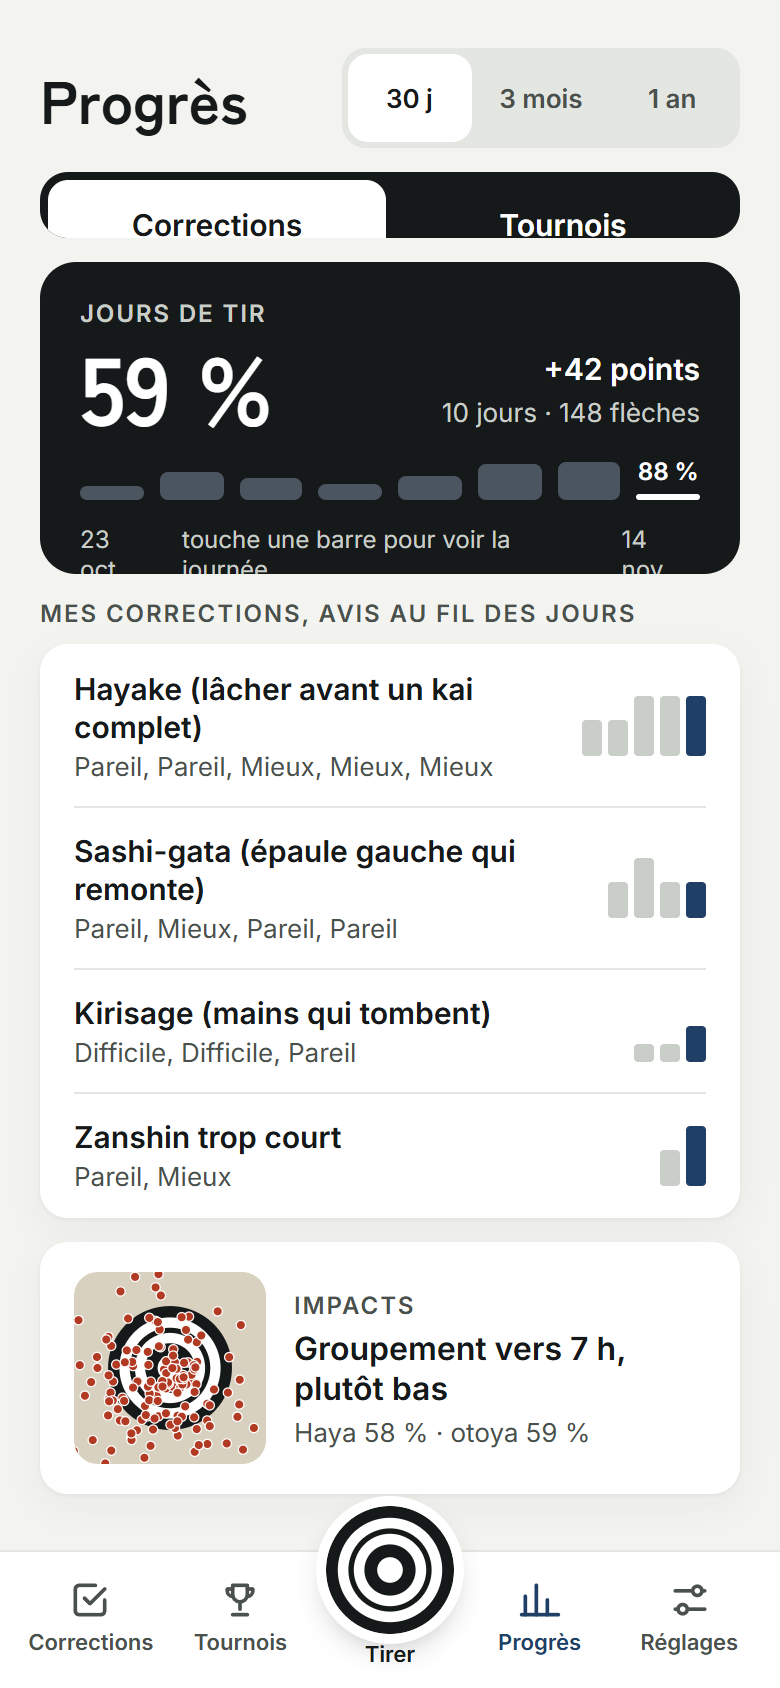
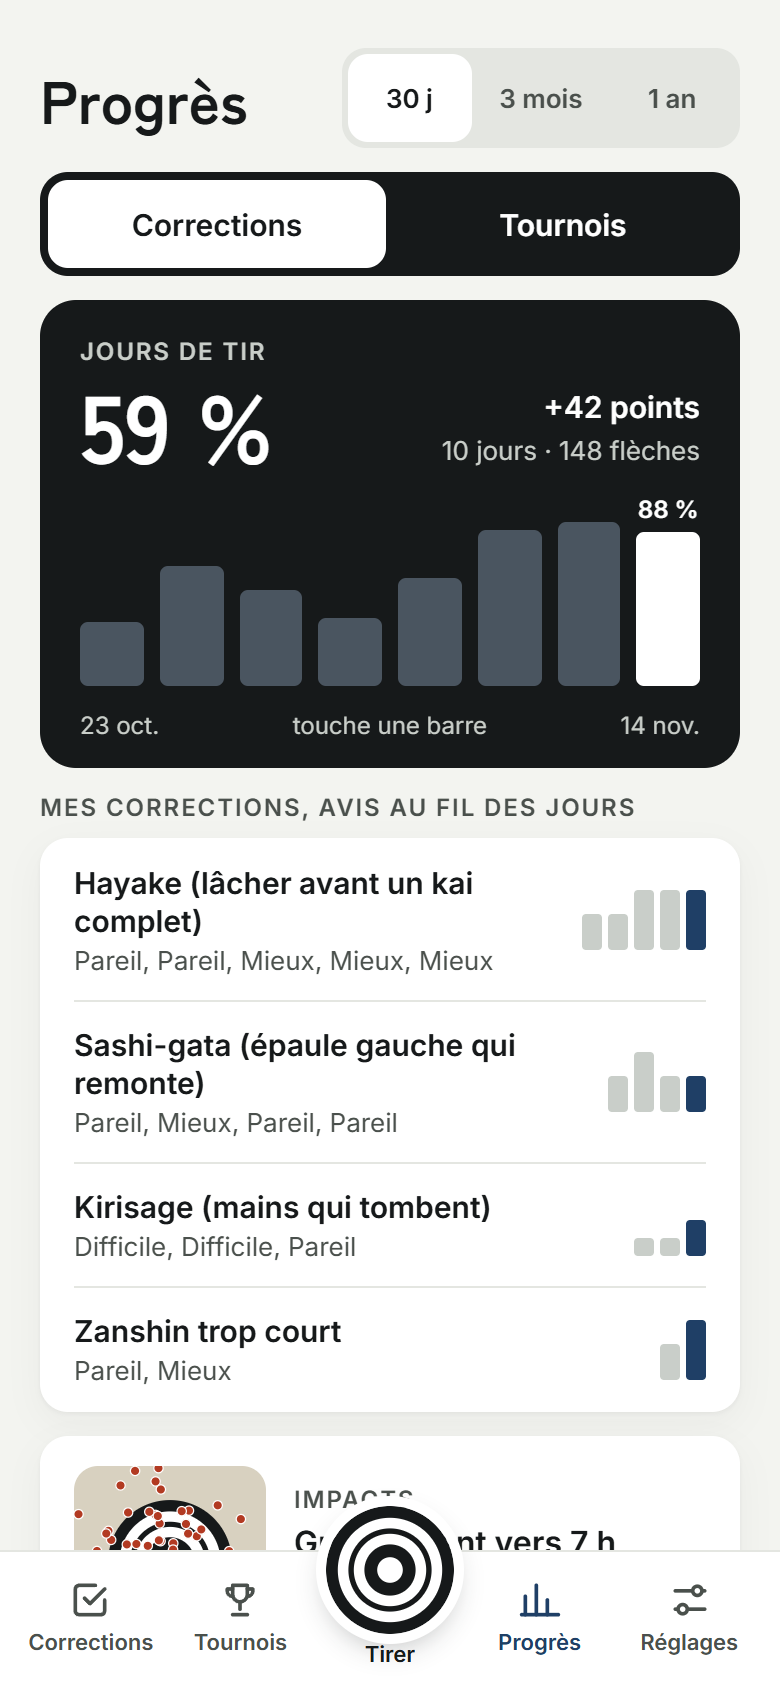
Progrès : les blocs ne s'écrasent plus, adresse tekichu.pages.dev

diff --git a/src/screens/Progres.tsx b/src/screens/Progres.tsx
@@ -114,7 +114,7 @@ export function Progres() {
               <Bars items={bars} />
               <div className="between sub" style={{ fontSize: 12 }}>
                 <span>{fmtShort(bars[0].date)}</span>
-                <span>touche une barre pour voir la journée</span>
+                <span style={{ whiteSpace: 'nowrap' }}>touche une barre</span>
                 <span>{bars.length > 1 ? fmtShort(bars[bars.length - 1].date) : ''}</span>
               </div>
             </div>

diff --git a/src/styles.css b/src/styles.css
@@ -233,3 +233,6 @@ input.on-dark { border: none; background: var(--dark-soft); color: var(--dark-in
 /* Un libellé long passe à la ligne au lieu de dépasser de l'écran. */
 .col.fill { overflow-x: hidden; }
 .chips:not(.scroll) .chip { flex: 0 1 auto; max-width: 100%; line-height: 1.25; }
+
+/* Les blocs d'un écran à onglets gardent leur hauteur : c'est l'écran qui défile, pas eux qui s'écrasent. */
+.screen.tabbed > :not(.fill) { flex-shrink: 0; }

diff --git a/README.md b/README.md
@@ -10,7 +10,7 @@
 </p>
 
 <p align="center">
-  <a href="https://kyudo-carnet.pages.dev"><img src="https://img.shields.io/badge/Ouvrir_l'app-1F3D66?style=for-the-badge" alt="Ouvrir l'app" /></a>
+  <a href="https://tekichu.pages.dev"><img src="https://img.shields.io/badge/Ouvrir_l'app-1F3D66?style=for-the-badge" alt="Ouvrir l'app" /></a>
 </p>
 
 <p align="center">
